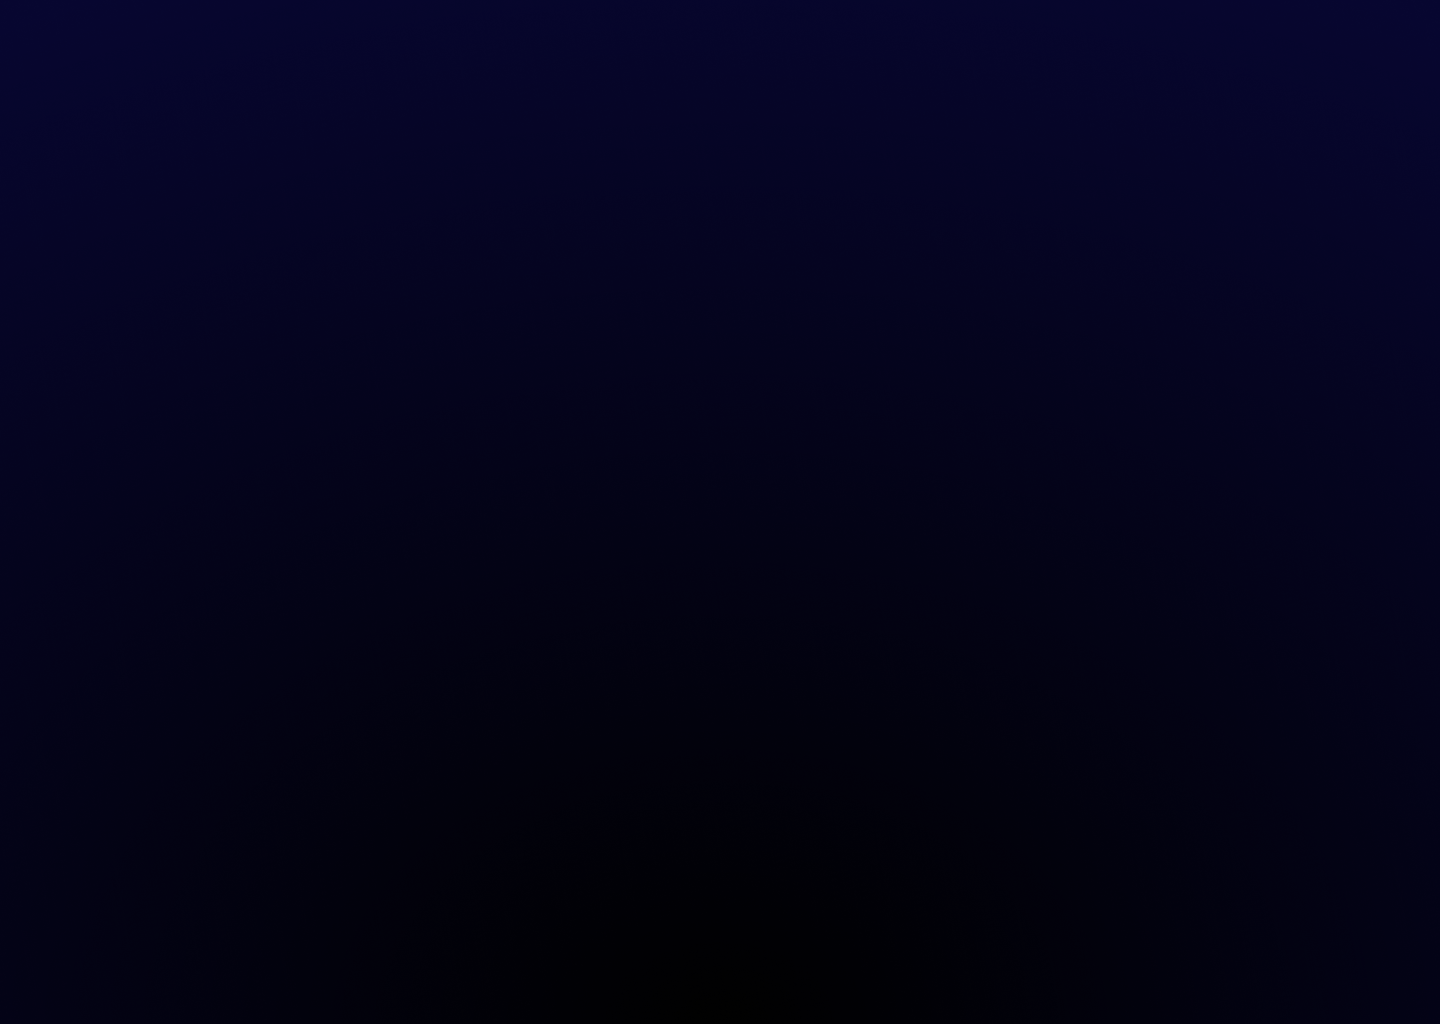
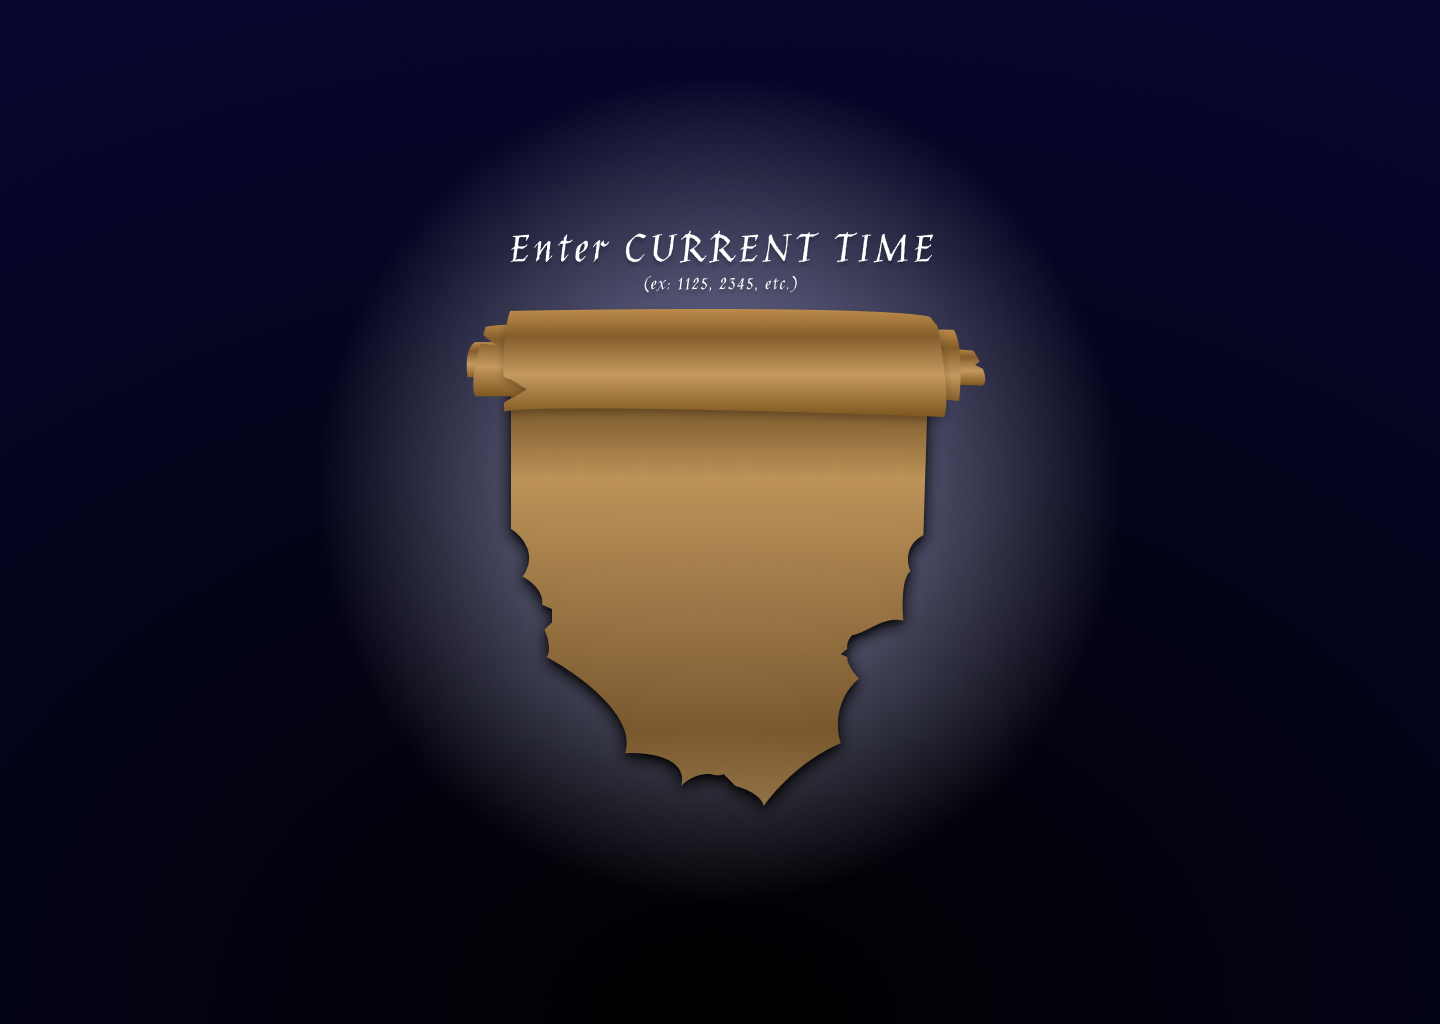
page3 DONE

Changed region(s): [[0.25, 0.125, 0.75, 0.8438]]

diff --git a/style.css b/style.css
@@ -166,3 +166,64 @@
     left: 57%;
     z-index: 1;
 }
+
+/* PAGE THREE */
+
+.img3_1 {
+    max-width: 1247px;
+    max-height: 181px;
+
+    display: block;
+    margin-left: auto;
+    margin-right: auto;
+
+
+    width: 70%;
+}
+
+.img3_2 {
+    /* display: flex;
+    justify-content: center;
+    align-items: center;
+    height: 100vh; */
+
+    max-width: 474px;
+    max-height: 538px;
+
+    align-items: flex-end;
+
+    display: block;
+    margin-left: auto;
+    margin-right: auto;
+
+    width: 70%;
+}
+
+.img3_3 {
+    max-width: 886px;
+    max-height: 103px;
+
+    position: absolute;
+    top: 560%;
+    left: 30%;
+    z-index: 1;
+}
+
+input[type=text] {
+    height: 50px;
+    width: 100px;
+
+    position: absolute;
+    top: 300%;
+    left: 44%;
+
+    padding: 12px 20px;
+    margin: 10px 0;
+    box-sizing: 0.5px;
+
+    text-align: center;
+
+    border: none;
+    background-color: #926c37;
+    color: white;
+}

diff --git a/page3.html b/page3.html
@@ -8,13 +8,21 @@
 
     <link href="style.css" rel="stylesheet" />
 
-    <title>Document</title>
+    <title>Enter Current Time</title>
 </head>
 
 <body class="body page3">
-    <div id="circle"></div>
-    <script src="main.js"></script>
+    <!-- <div id="circle"></div>
+    <script src="main.js"></script> -->
 
+    <img class="img3_1" src="./image/3_1_fortune_like.png" alt="What's your FORTUNE like today">
+    <!-- <img class="img3_2" src="./image/3_2.png" alt="Enter current time"> -->
+
+    <input type="text" id="fname" name="fname" value="1111">
+
+    <a href="page4.html">
+        <img class="imgHover img3_3" src="./image/3_3_seal_your_fate.png" alt="Seal your fate">
+    </a>
 
 </body>
 
